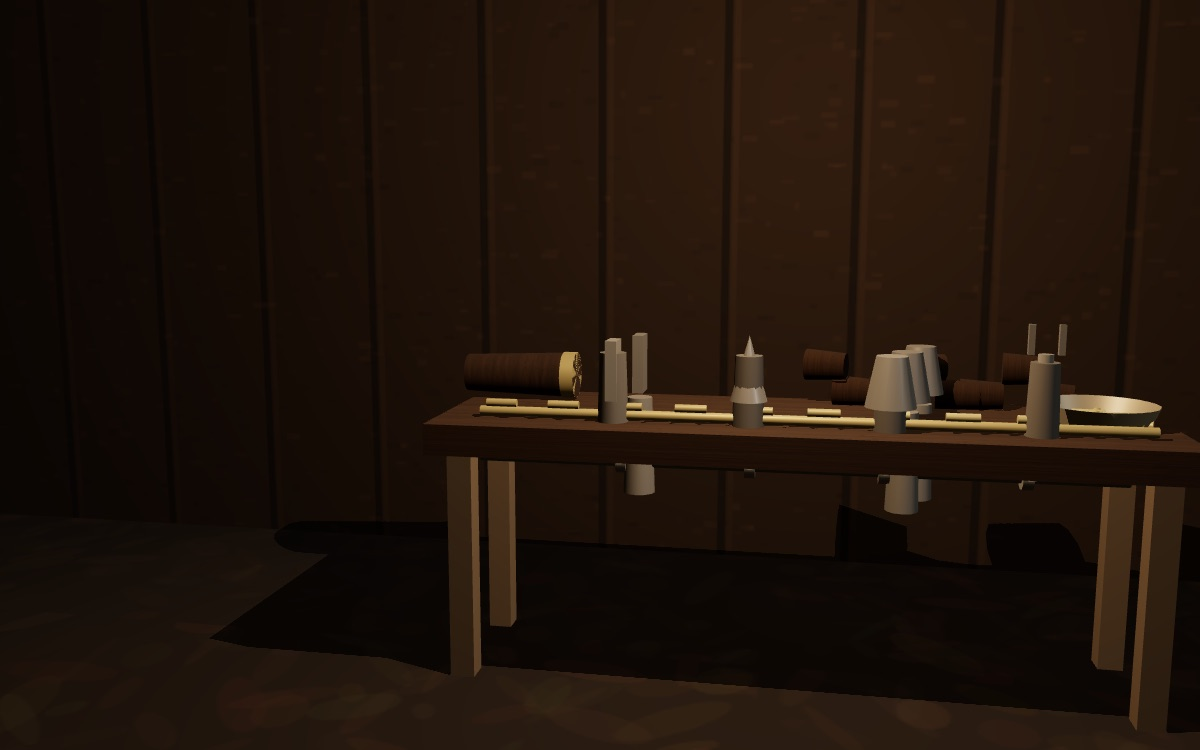
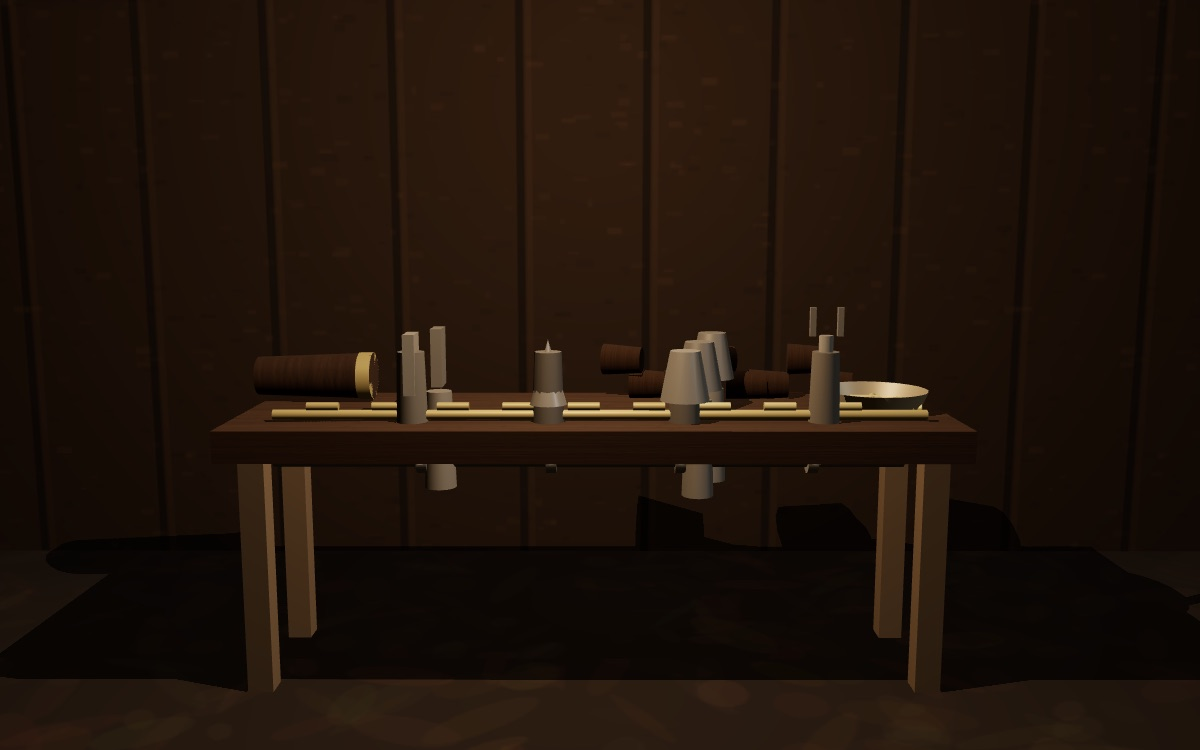
Glossaire : travailleur-collectif réécrite selon la charte, direction artistique « le four »

diff --git a/glossaire/mondes/travailleur-collectif/essai.html b/glossaire/mondes/travailleur-collectif/essai.html
@@ -1,47 +1,81 @@
-<!-- L'ESSAI - le corps de /glossaire/travailleur-collectif.
-     data-s="4" = quatrieme section de Roy (ch. XII-XV), qui contient le
-     chapitre XIV, De la division du travail et de la manufacture, et le
-     chapitre XV. data-s="5" = cinquieme section, ou la determination du
-     travail productif est elargie a partir de ce concept. -->
+<!-- L'ESSAI : le corps de /glossaire/travailleur-collectif.
+     Fragment HTML, assemblé par tools/gen-seo.mjs dans le gabarit des pages
+     de notion (avec meta.json pour la tête, l'appareil et le monde).
+     Réécrit en octobre 2026 selon glossaire/mondes/CHARTE.md.
+     data-s="4" = quatrième section de Roy (chapitres XII à XV : coopération,
+     manufacture, grande industrie). data-s="5" = cinquième section, où le
+     chapitre XVI élargit la détermination du travail productif à partir de
+     ce concept. Un data-q est une phrase RELEVÉE dans le texte que la
+     liseuse sert, au caractère près (apostrophe typographique, traits
+     d'union insécables de Wikisource) : ne rien « corriger ». -->
 
 <section class="nt-sec" data-etape="fait" id="fait">
-<h2>Un produit dont personne n'est l'auteur</h2>
-<p>Le chapitre XIV s'ouvre sur une difficulté que la coopération simple ne posait pas encore, ou du moins pas avec cette netteté. Dans un atelier de manufacture, l'épingle qui sort à la fin de la journée n'a été faite par personne. Le premier ouvrier a tiré le fil de laiton, le deuxième l'a coupé, le troisième en a aiguisé la pointe, le quatrième a formé la tête, le cinquième l'a fixée, et aucun d'eux n'a jamais fait d'épingle. Il faut donc, si l'on veut continuer de parler de production, nommer le producteur, et ce producteur n'est aucun des hommes qui sont dans la salle.</p>
-<p>Marx le nomme, et le nom n'est pas une image commode&nbsp;: c'est un concept, qui a ses propriétés, ses lois de composition et son histoire. Le producteur est le <i>Gesamtarbeiter</i>, le travailleur collectif, dont Roy traduit ailleurs le caractère par une formule mythologique que Marx emprunte au géant aux cent bras&nbsp;: <q data-s="4" data-q="Le travailleur collectif, Briarée, dont les mille mains sont armées d’outils divers">Le travailleur collectif, Briarée, dont les mille mains sont armées d'outils divers</q>, et qui exécute en même temps toutes les opérations que l'artisan exécutait l'une après l'autre.</p>
-<p>Il faut mesurer ce que ce déplacement engage. Toute l'économie politique classique raisonnait sur un producteur individuel dont on additionnait ensuite les produits&nbsp;; Marx soutient qu'à partir d'un certain point du développement, le sujet réel de la production n'est plus l'individu mais une combinaison, laquelle possède des facultés que ses membres n'ont pas et n'ont jamais eues. C'est pourquoi ce concept se place ici, au seuil de la manufacture, et non dans les chapitres sur la valeur&nbsp;: il fallait d'abord que la coopération ait été établie pour que l'on puisse montrer que sa forme développée produit un producteur nouveau.</p>
+<h2>Qui a fait l'épingle&nbsp;?</h2>
+<p class="nt-lead">Personne en particulier. Dans la manufacture, le produit passe par tant de mains qu'aucun ouvrier ne peut s'en dire l'auteur&nbsp;; le producteur est la combinaison des ouvriers elle-même, et Marx l'appelle le travailleur collectif.</p>
+<p>Prenons la manufacture d'épingles, à laquelle Marx revient plusieurs fois dans ce chapitre. Un ouvrier coupe le fil de laiton, un autre aiguise la pointe, un troisième façonne la tête, un quatrième l'attache. Chacun passe sa journée sur une seule de ces opérations, et aucun n'a jamais fait une épingle de bout en bout. Pourtant des épingles sortent de l'atelier par milliers. Si l'on veut dire qui les produit, il faut nommer quelqu'un qui n'est aucun des hommes présents dans la salle.</p>
+<p>Marx lui donne un nom, puis une image. L'image vient de la mythologie grecque, où Briarée est un géant aux cent bras&nbsp;; Marx lui en prête mille&nbsp;:</p>
+<blockquote data-s="4" data-q="Le travailleur collectif, Briarée, dont les mille mains sont armées d’outils divers"><p>Le travailleur collectif, Briarée, dont les mille mains sont armées d’outils divers, exécute en même temps la coupe des fils de laiton, la façon des têtes d’épingles, l’aiguisement de leurs pointes, leur attache, etc.</p></blockquote>
+<p>Le géant fait en même temps ce que l'artisan faisait l'une après l'autre. Chez l'épinglier d'autrefois, les opérations se suivaient dans le temps&nbsp;; dans la manufacture, chaque épingle les traverse encore une à une, mais l'atelier les accomplit toutes à la fois, à des postes différents. Marx le résume ainsi&nbsp;: <q data-s="4" data-q="Les diverses opérations connexes, successives dans le temps, deviennent simultanées dans l’espace">les diverses opérations connexes, successives dans le temps, deviennent simultanées dans l’espace</q>.</p>
+<p>Le second exemple du chapitre est la montre. Marx rappelle que William Petty l'avait déjà choisie pour décrire la division du travail, et il en fait l'histoire en une phrase&nbsp;: <q data-s="4" data-q="Primitivement œuvre individuelle d’un artisan de Nuremberg, la montre est devenue le produit social d’un nombre immense de travailleurs">primitivement œuvre individuelle d’un artisan de Nuremberg, la montre est devenue le produit social d’un nombre immense de travailleurs</q>. Suit une liste de plus de trente métiers&nbsp;: faiseurs de ressorts, de cadrans, de pignons, de vis, polisseurs de roues, peintres de chiffres, graveurs. La montre qu'on achète est faite de leurs pièces, et elle ne porte la marque d'aucun d'eux.</p>
+<div data-planche="montre"></div>
+<p>Le mot allemand est <i lang="de">Gesamtarbeiter</i>, mot à mot le travailleur d'ensemble. Le travailleur collectif apparaît déjà au chapitre XIII, consacré à la coopération, mais c'est au chapitre XIV qu'il prend tout son sens, quand la manufacture devient <q data-s="4" data-q="un organisme de production dont les membres sont des hommes">un organisme de production dont les membres sont des hommes</q>.</p>
 </section>
 
 <section class="nt-sec" data-etape="distinction" id="distinction">
-<h2>La distinction qui fait le concept&nbsp;: le membre et l'organe</h2>
-<p>Le travailleur collectif n'est pas la somme des ouvriers, et le dire ainsi ne suffit pas encore&nbsp;: il faut dire par quoi il en diffère. Il en diffère en ceci que ses parties ne sont pas des personnes complètes qu'on aurait rapprochées, mais des <i>fonctions</i>, et que chacune de ces fonctions est portée par un homme qui s'y est réduit. <q data-s="4" data-q="le mécanisme vivant de la manufacture, le travailleur collectif, n’est composé que de pareils travailleurs parcellaires">le mécanisme vivant de la manufacture, le travailleur collectif, n'est composé que de pareils travailleurs parcellaires</q> : la formule est exacte au mot près, et c'est le mot <i>parcellaire</i> qui fait le concept.</p>
-<p>Là où la coopération simple laissait chacun faire tout le travail à côté des autres, la manufacture décompose le métier et attache chaque homme à un fragment. Le gain est immédiat, et Marx en donne deux ressorts distincts. Le premier est un gain de temps sur l'objet&nbsp;: dans la chaîne des douze maçons qui se passent les pierres, <q data-s="4" data-q="les vingt‑quatre mains du travailleur collectif la font passer plus vite que ne le feraient les deux mains de chaque ouvrier isolé">les vingt‑quatre mains du travailleur collectif la font passer plus vite que ne le feraient les deux mains de chaque ouvrier isolé</q> montant et descendant l'échafaudage. Le second est un gain d'ubiquité&nbsp;: <q data-s="4" data-q="le travailleur collectif a des yeux et des mains par‑devant et par derrière et se trouve jusqu’à un certain point présent partout">le travailleur collectif a des yeux et des mains par‑devant et par derrière et se trouve jusqu'à un certain point présent partout</q>, si bien que des parties du produit séparées dans l'espace mûrissent dans le même temps.</p>
-<p>Vient alors la proposition la plus dure du chapitre, et celle qu'il ne faut surtout pas adoucir. La perfection de l'ensemble se paie de la diminution de chacun&nbsp;: <q data-s="4" data-q="En tant que membre du travailleur collectif, le travailleur parcellaire devient même d’autant plus parfait qu’il est plus borné et plus incomplet">En tant que membre du travailleur collectif, le travailleur parcellaire devient même d'autant plus parfait qu'il est plus borné et plus incomplet</q>. Ce n'est pas un paradoxe rhétorique. Un homme qui ne fait qu'une chose la fait plus vite, plus sûrement, avec moins de déchet&nbsp;; il devient, écrit Marx, <q data-s="4" data-q="organe infaillible et spontané de cette fonction">organe infaillible et spontané de cette fonction</q>, tandis que <q data-s="4" data-q="l’ensemble du mécanisme le contraint d’agir avec la régularité d’une pièce de machine">l'ensemble du mécanisme le contraint d'agir avec la régularité d'une pièce de machine</q>. Le mot <i>organe</i> est ici littéral&nbsp;: un organe est ce qui n'a de fonction que dans un corps, et qui hors de ce corps n'a plus de fonction du tout.</p>
+<h2>Qu'est-ce qui distingue le travailleur collectif d'une somme d'ouvriers&nbsp;?</h2>
+<p class="nt-lead">Ses parties sont des fonctions plutôt que des personnes. Chaque homme y porte un seul geste, et ces gestes ne forment un travail que dans l'ensemble.</p>
+<p>La coopération simple donne déjà au groupe des facultés qu'aucun de ses membres ne possède. Marx prend l'exemple de douze maçons qui font la chaîne pour monter des pierres en haut d'un échafaudage. Chacun fait le même geste, et pourtant <q data-s="4" data-q="les vingt‑quatre mains du travailleur collectif la font passer plus vite que ne le feraient les deux mains de chaque ouvrier isolé">les vingt‑quatre mains du travailleur collectif la font passer plus vite que ne le feraient les deux mains de chaque ouvrier isolé</q> montant et descendant l'échelle. Quand ils travaillent aux différents côtés d'un même bâtiment, le groupe gagne une sorte d'ubiquité&nbsp;: <q data-s="4" data-q="le travailleur collectif a des yeux et des mains par‑devant et par derrière et se trouve jusqu’à un certain point présent partout">le travailleur collectif a des yeux et des mains par‑devant et par derrière et se trouve jusqu’à un certain point présent partout</q>.</p>
+<p>La manufacture va plus loin. Les douze maçons restaient des maçons complets, qui auraient pu bâtir seuls. Dans l'atelier d'épingles, le métier lui-même est décomposé, et chaque homme est attaché à un fragment. Marx le dit au mot près&nbsp;: <q data-s="4" data-q="le mécanisme vivant de la manufacture, le travailleur collectif, n’est composé que de pareils travailleurs parcellaires">le mécanisme vivant de la manufacture, le travailleur collectif, n’est composé que de pareils travailleurs parcellaires</q>. Le mot qui compte est «&nbsp;parcellaire&nbsp;»&nbsp;: l'ouvrier n'est plus qu'une parcelle du producteur.</p>
+<p>Vient alors la phrase la plus dure du chapitre, qu'il ne faut pas adoucir&nbsp;:</p>
+<blockquote data-s="4" data-q="En tant que membre du travailleur collectif, le travailleur parcellaire devient même d’autant plus parfait qu’il est plus borné et plus incomplet"><p>En tant que membre du travailleur collectif, le travailleur parcellaire devient même d’autant plus parfait qu’il est plus borné et plus incomplet.</p></blockquote>
+<p>Elle n'a rien d'un paradoxe de style. Un homme qui ne fait qu'une chose la fait plus vite, plus sûrement, avec moins de perte. L'habitude le change en <q data-s="4" data-q="organe infaillible et spontané de cette fonction">organe infaillible et spontané de cette fonction</q>, tandis que <q data-s="4" data-q="l’ensemble du mécanisme le contraint d’agir avec la régularité d’une pièce de machine">l’ensemble du mécanisme le contraint d’agir avec la régularité d’une pièce de machine</q>. Le mot «&nbsp;organe&nbsp;» se prend ici à la lettre&nbsp;: un organe n'a de fonction que dans un corps, et hors de ce corps il n'en a plus aucune. Marx évoque à ce propos l'apologue romain de Ménénius Agrippa, où la cité est comparée à un corps dont les citoyens sont les membres. La manufacture le rend vrai à sa manière&nbsp;: on y trouve réalisée <q data-s="4" data-q="la fable absurde de Menennius Agrippa, représentant un homme comme fragment de son propre corps">la fable absurde de Menennius Agrippa, représentant un homme comme fragment de son propre corps</q>.</p>
 </section>
 
 <section class="nt-sec" data-etape="mecanisme" id="mecanisme">
-<h2>Le mécanisme&nbsp;: pourquoi c'est un corps et non une équipe</h2>
-<p>On pourrait croire qu'il s'agit d'une manière de parler, et que le travailleur collectif est une équipe dont on célèbre l'entente. Marx ferme cette lecture par un argument qui est proprement technique, et qui est le plus beau du chapitre. Une équipe se compose des volontés qui s'y accordent&nbsp;; un corps se compose selon des proportions qu'aucune volonté ne choisit. Or la manufacture, écrit-il, ne se contente pas de multiplier les organes qualitativement différents du travailleur collectif&nbsp;: <q data-s="4" data-q="elle crée, de plus, un rapport mathématique fixe qui règle leur quantité">elle crée, de plus, un rapport mathématique fixe qui règle leur quantité</q>, c'est-à-dire le nombre relatif d'ouvriers affectés à chaque fonction.</p>
-<p>Il faut se représenter la chose très concrètement, parce que c'est là que le concept cesse d'être une figure. Si un fondeur fournit quatre mille pièces à l'heure, qu'un briseur en détache autant et qu'un frotteur en polit huit mille, alors le groupe se compose nécessairement de deux fondeurs, deux briseurs et un frotteur, et de rien d'autre. <q data-s="4" data-q="Le nombre proportionnel le plus convenable des différents groupes de travailleurs parcellaires">Le nombre proportionnel le plus convenable des différents groupes de travailleurs parcellaires</q> une fois établi, on ne peut plus étendre l'atelier qu'en multipliant chaque groupe par un même nombre entier. L'atelier a une formule, comme un composé chimique a la sienne.</p>
-<p>De là suivent deux conséquences que le reste du chapitre développe. La première est qu'un membre manquant arrête tout&nbsp;: l'interruption d'une fonction ne ralentit pas le rendement, elle le supprime, puisque l'objet n'a plus de phase suivante à parcourir. La seconde est qu'un tel corps exige une tête qui ne soit pas l'un de ses bras. Marx la formule par une comparaison que l'on cite souvent sans la lire jusqu'au bout&nbsp;: <q data-s="4" data-q="Un musicien exécutant un solo se dirige lui-même, mais un orchestre a besoin d’un chef">Un musicien exécutant un solo se dirige lui-même, mais un orchestre a besoin d'un chef</q>. La direction est ici une nécessité réelle de la coopération, et c'est précisément parce qu'elle est réelle qu'elle peut servir à justifier une direction d'une tout autre nature.</p>
+<h2>Pourquoi parler d'un corps plutôt que d'une équipe&nbsp;?</h2>
+<p class="nt-lead">Parce que ses proportions ne dépendent de la volonté de personne. La technique fixe combien d'hommes il faut à chaque fonction, et l'absence d'un seul arrête l'ensemble.</p>
+<p>Une équipe se forme par l'accord de ceux qui la composent. Le travailleur collectif se compose selon des nombres. Chaque opération a son rythme&nbsp;: si un ouvrier en accomplit une deux fois plus vite que son voisin n'accomplit la suivante, il faut deux voisins pour un ouvrier. La manufacture, écrit Marx, ne multiplie pas seulement les organes du travailleur collectif&nbsp;: <q data-s="4" data-q="elle crée, de plus, un rapport mathématique fixe qui règle leur quantité">elle crée, de plus, un rapport mathématique fixe qui règle leur quantité</q>. Une fois trouvé <q data-s="4" data-q="Le nombre proportionnel le plus convenable des différents groupes de travailleurs parcellaires">le nombre proportionnel le plus convenable des différents groupes de travailleurs parcellaires</q>, on ne peut agrandir l'atelier qu'en multipliant chaque groupe par le même nombre. L'atelier a une formule, comme un corps chimique a la sienne.</p>
+<div class="nt-ex">
+<p class="nt-ex-t">Un exemple&nbsp;: le groupe du four</p>
+<p>Marx décrit une verrerie anglaise qui fabrique des bouteilles. Devant chaque ouverture du four travaille un groupe de cinq hommes, qu'on appelle en anglais le <i lang="en">hole</i>, «&nbsp;le trou&nbsp;»&nbsp;: un finisseur, un souffleur, un cueilleur qui prend le verre en fusion, et deux ouvriers que Marx désigne par leurs noms anglais, <i lang="en">putter-up</i> et <i lang="en">taker-in</i>. Le travail passe de l'un à l'autre. <q data-s="4" data-q="Ces cinq ouvriers forment autant d’organes différents d’une force collective de travail">Ces cinq ouvriers forment autant d’organes différents d’une force collective de travail</q>, qui ne fonctionne que si les cinq sont là.</p>
+<p>Qu'un seul s'absente, et la bouteille ne peut plus être faite&nbsp;: le groupe ne ralentit pas, il s'arrête. Marx l'écrit sans détour&nbsp;: <q data-s="4" data-q="Cet organisme se trouve paralysé dès qu’il lui manque un seul de ses membres">cet organisme se trouve paralysé dès qu’il lui manque un seul de ses membres</q>. Le four, lui, a quatre à six ouvertures, chacune avec son groupe, et ces groupes ne sont reliés que parce qu'ils partagent le même feu.</p>
+</div>
+<p>Un tel corps a besoin d'une tête qui ne soit aucun de ses bras. Marx l'avait dit dès la coopération simple, par une comparaison souvent citée&nbsp;: <q data-s="4" data-q="Un musicien exécutant un solo se dirige lui-même, mais un orchestre a besoin d’un chef">un musicien exécutant un solo se dirige lui-même, mais un orchestre a besoin d’un chef</q>. La direction répond à une nécessité réelle du travail en commun. La phrase suivante dit pourtant à qui elle échoit&nbsp;: <q data-s="4" data-q="Cette fonction de direction, de surveillance et de médiation devient la fonction du capital">cette fonction de direction, de surveillance et de médiation devient la fonction du capital</q>. La nécessité est technique&nbsp;; celui qui l'exerce est désigné par la propriété.</p>
 </section>
 
 <section class="nt-sec" data-etape="portee" id="portee">
-<h2>Ce que la combinaison coûte à ceux qui la composent</h2>
-<p>Nous touchons ici à ce qui distingue ce chapitre d'un éloge de l'organisation industrielle, et il faut y insister parce que la formule est symétrique et que sa symétrie est le sens même du concept. <q data-s="4" data-q="Dans la manufacture l’enrichissement du travailleur collectif, et par suite du capital, en forces productives sociales a pour condition l’appauvrissement du travailleur en forces productives individuelles">Dans la manufacture l'enrichissement du travailleur collectif, et par suite du capital, en forces productives sociales a pour condition l'appauvrissement du travailleur en forces productives individuelles</q>. Ce que le corps gagne, il ne le gagne pas en plus de ses organes&nbsp;: il le gagne à leurs dépens, et la proposition dit <i>condition</i>, non pas conséquence regrettable.</p>
-<p>Marx en tire ce qu'il appelle une pathologie industrielle. La manufacture développe la virtuosité de l'ouvrier de détail en sacrifiant tout un monde de dispositions productives&nbsp;; elle le mutile, et il emploie ce mot sans métaphore, <q data-s="4" data-q="la manufacture qui mutile le travailleur au point de le réduire à une parcelle de lui-même">la manufacture qui mutile le travailleur au point de le réduire à une parcelle de lui-même</q>. La comparaison qui suit est brutale et volontairement dérangeante&nbsp;: on immole un taureau pour sa peau et son suif.</p>
-<p>Une seconde conséquence, plus discrète, éclaire toute la question des salaires. Puisque les fonctions du travailleur collectif sont inégalement simples et inégalement longues à apprendre, les forces de travail qui les portent ont des valeurs différentes&nbsp;; il en résulte que <q data-s="4" data-q="La manufacture crée ainsi une hiérarchie des forces de travail à laquelle correspond une échelle graduée des salaires">La manufacture crée ainsi une hiérarchie des forces de travail à laquelle correspond une échelle graduée des salaires</q>. L'échelle des salaires n'est donc pas d'abord un fait de négociation&nbsp;: elle est la projection, sur les hommes, de la structure d'un corps productif. C'est un point que les études contemporaines sur la segmentation du marché du travail retrouvent par d'autres chemins, et il vaut la peine de noter qu'il est ici déduit et non constaté.</p>
+<h2>Que coûte cette combinaison à ceux qui la composent&nbsp;?</h2>
+<p class="nt-lead">Ce que le corps gagne, ses membres le perdent. Marx l'écrit comme une condition&nbsp;: la richesse productive de l'ensemble suppose l'appauvrissement de chacun.</p>
+<p>La phrase est construite comme une balance, et il faut la lire jusqu'au bout&nbsp;:</p>
+<blockquote data-s="4" data-q="Dans la manufacture l’enrichissement du travailleur collectif, et par suite du capital, en forces productives sociales a pour condition l’appauvrissement du travailleur en forces productives individuelles"><p>Dans la manufacture l’enrichissement du travailleur collectif, et par suite du capital, en forces productives sociales a pour condition l’appauvrissement du travailleur en forces productives individuelles.</p></blockquote>
+<p>Le mot «&nbsp;condition&nbsp;» porte l'argument. Il désigne ce sans quoi l'enrichissement n'aurait pas lieu&nbsp;: le corps devient habile parce que ses membres sont réduits à un geste. L'intelligence du travail, qui était dans la main et la tête de l'artisan, change alors de place&nbsp;: <q data-s="4" data-q="Ce que les ouvriers parcellaires perdent, se concentre en face d’eux dans le capital.">ce que les ouvriers parcellaires perdent, se concentre en face d’eux dans le capital.</q> Le plan de l'atelier, la connaissance de l'ensemble, le rythme des opérations appartiennent désormais à celui qui dirige.</p>
+<p>Marx emploie alors un mot qu'il prend au sens propre, celui de mutilation. La division de l'atelier commence dans la coopération et <q data-s="4" data-q="se développe dans la manufacture qui mutile le travailleur au point de le réduire à une parcelle de lui-même">se développe dans la manufacture qui mutile le travailleur au point de le réduire à une parcelle de lui-même</q>. Pour faire sentir le gâchis, il compare la manufacture aux éleveurs de la Plata qui abattent un taureau pour sa seule peau et son suif&nbsp;: on sacrifie un homme entier pour en tirer une dextérité.</p>
+<p>La structure du corps se projette enfin sur les salaires. Les fonctions du travailleur collectif ne demandent pas le même apprentissage&nbsp;; les forces de travail qui les remplissent n'ont donc pas la même valeur. <q data-s="4" data-q="La manufacture crée ainsi une hiérarchie des forces de travail à laquelle correspond une échelle graduée des salaires">La manufacture crée ainsi une hiérarchie des forces de travail à laquelle correspond une échelle graduée des salaires</q>. Avant d'être une affaire de négociation, l'écart entre les salaires reflète la place de chacun dans l'organisme.</p>
 </section>
 
 <section class="nt-sec" data-etape="ouvre" id="ouvre">
-<h2>Ce que le concept ouvre&nbsp;: le travail productif, puis la machine</h2>
-<p>Deux développements majeurs du Livre&nbsp;I sortent de ce concept, et ils vont dans des directions opposées, ce qui est le signe d'un concept fécond.</p>
-<p>Le premier élargit la notion de travail productif. Tant que le producteur est un individu, est productif celui qui met la main à l'ouvrage. Dès que le producteur est une combinaison, la détermination change de sujet&nbsp;: <q data-s="5" data-q="il suffit d’être un organe du travailleur collectif ou d’en remplir une fonction quelconque">il suffit d'être un organe du travailleur collectif ou d'en remplir une fonction quelconque</q>. Le contremaître, le dessinateur, l'employé qui ne touche jamais la matière deviennent alors des travailleurs productifs au même titre que le fileur, non par générosité de la définition mais parce que le producteur réel les comprend. Marx ajoute aussitôt la restriction qui compte dans le système capitaliste&nbsp;: n'y est productif que le travail qui produit de la <a href="/glossaire/plus-value">plus-value</a>, ce qui est une seconde détermination, sociale celle-là, et non plus matérielle.</p>
-<p>Le second développement conduit au chapitre XV et le renverse. Marx y oppose deux définitions de la fabrique, empruntées au même auteur, et montre qu'elles disent le contraire l'une de l'autre. Dans la première, <q data-s="4" data-q="le travailleur collectif ou le corps de travail social apparaît comme le sujet dominant et l’automate mécanique comme son objet">le travailleur collectif ou le corps de travail social apparaît comme le sujet dominant et l'automate mécanique comme son objet</q>. Dans la seconde, <q data-s="4" data-q="c’est l’automate même qui est le sujet et les travailleurs sont tout simplement adjoints comme organes conscients à ses organes inconscients">c'est l'automate même qui est le sujet et les travailleurs sont tout simplement adjoints comme organes conscients à ses organes inconscients</q>. Le passage de l'une à l'autre est toute l'histoire de la grande industrie&nbsp;: le corps qui portait les outils devient un appendice de la machine qui les porte, et c'est ce déplacement du sujet, plus encore que l'accélération des cadences, qui fait la différence entre la manufacture et la fabrique.</p>
+<h2>Que devient le concept dans la suite du <i>Capital</i>&nbsp;?</h2>
+<p class="nt-lead">Il sert deux fois. Il élargit la notion de travail productif, puis il perd sa place de sujet au profit de la machine.</p>
+<p>Au chapitre XVI, Marx tire la première conséquence. Tant que le producteur est un individu, est productif celui qui travaille la matière de ses mains. Quand le producteur est une combinaison, la définition change de sujet&nbsp;: <q data-s="5" data-q="Pour être productif, il n’est plus nécessaire de mettre soi-même la main à l’œuvre">pour être productif, il n’est plus nécessaire de mettre soi-même la main à l’œuvre</q>, car <q data-s="5" data-q="il suffit d’être un organe du travailleur collectif ou d’en remplir une fonction quelconque">il suffit d’être un organe du travailleur collectif ou d’en remplir une fonction quelconque</q>. Le contremaître, le dessinateur, le commis qui ne touche jamais l'ouvrage participent à la production au même titre que le fileur, puisque le producteur réel les comprend tous. Marx ajoute aussitôt une seconde condition, propre au capitalisme&nbsp;: n'y est productif que le travail qui produit de la <a href="/glossaire/plus-value">plus-value</a>.</p>
+<p>La seconde conséquence se lit au chapitre XV et renverse la première. Andrew Ure, que Marx appelle «&nbsp;le Pindare de la fabrique&nbsp;», donne de la fabrique deux définitions que Marx confronte. Dans la première, <q data-s="4" data-q="le travailleur collectif ou le corps de travail social apparaît comme le sujet dominant et l’automate mécanique comme son objet">le travailleur collectif ou le corps de travail social apparaît comme le sujet dominant et l’automate mécanique comme son objet</q>. Dans la seconde, <q data-s="4" data-q="c’est l’automate même qui est le sujet et les travailleurs sont tout simplement adjoints comme organes conscients à ses organes inconscients">c’est l’automate même qui est le sujet et les travailleurs sont tout simplement adjoints comme organes conscients à ses organes inconscients</q>.</p>
+<p>Le passage de l'une à l'autre résume l'histoire de la grande industrie. Dans la manufacture, le corps des ouvriers porte les outils et en règle le mouvement. Dans la fabrique, une machine porte les outils, et les hommes s'ajustent à elle. Le travailleur collectif devient ce que la page sur l'<a href="/glossaire/appendice-de-la-machine">appendice de la machine</a> décrit&nbsp;: un ensemble d'organes au service d'un mécanisme qui ne vient plus de lui.</p>
 </section>
 
 <section class="nt-sec" data-etape="lectures" id="lectures">
-<h2>Lectures et contresens</h2>
-<p>Le contresens le plus répandu consiste à lire le travailleur collectif comme une figure déjà socialiste, une préfiguration de la production associée que le capital aurait involontairement mise au monde. Le texte interdit cette lecture, et il l'interdit par sa phrase la plus économique&nbsp;: <q data-s="4" data-q="La force productive que des salariés déploient en fonctionnant comme travailleur collectif, est par conséquent force productive du capital">La force productive que des salariés déploient en fonctionnant comme travailleur collectif, est par conséquent force productive du capital</q>. L'unité de ce corps ne lui appartient pas. Elle lui est extérieure, puisque ce sont des contrats séparés qui l'ont formé et un commandement qui la maintient&nbsp;; dès la coopération simple, <q data-s="4" data-q="le capitaliste représente vis-à-vis du travailleur isolé l’unité et la volonté du travailleur collectif">le capitaliste représente vis-à-vis du travailleur isolé l'unité et la volonté du travailleur collectif</q>.</p>
-<p>Il serait toutefois inexact d'en conclure que Marx ne voit là qu'une perte. La thèse est plus tendue, et nous nous rangeons à la lecture qui la maintient tendue plutôt qu'à celles qui la simplifient dans un sens ou dans l'autre. La combinaison est réellement une force productive nouvelle, et elle survivrait à la disparition du rapport qui l'a fait naître&nbsp;; ce qui n'y survivrait pas, c'est la forme que ce rapport lui impose, à savoir que ses organes soient des hommes réduits à une fonction et que sa tête soit la propriété d'un autre. Toute la difficulté du chapitre tient à ce qu'il faut penser ensemble une conquête et une mutilation, sans dissoudre l'une dans l'autre.</p>
-<p>Un dernier point de vocabulaire, qui prête souvent à confusion. Le travailleur collectif n'est pas la <a href="/glossaire/cooperation">coopération</a>, qui en est la condition, ni la <a href="/glossaire/division-du-travail">division du travail</a>, qui en est le principe de composition&nbsp;: il est le <i>sujet</i> que ces deux-là produisent, et c'est pour cela qu'il a fallu lui donner un nom. On lira utilement à sa suite la page sur l'<a href="/glossaire/appendice-de-la-machine">appendice de la machine</a>, où ce sujet perd sa place, et celle sur la <a href="/glossaire/plus-value-relative">plus-value relative</a>, qui dit à quoi toute cette organisation sert.</p>
+<h2>Comment lire ce concept, et quels contresens éviter&nbsp;?</h2>
+<p class="nt-lead">Le travailleur collectif est une force productive réelle, mais elle appartient au capital qui l'a assemblée. Les contresens viennent presque tous de ce qu'on retient l'une de ces deux affirmations sans l'autre.</p>
+<p>Le chapitre XIII dit d'où vient cette appartenance. Les ouvriers sont engagés un à un, par des contrats séparés, et ils n'entrent en rapport entre eux qu'une fois dans l'atelier&nbsp;: <q data-s="4" data-q="Leur coopération ne commence que dans le procès de travail ; mais là ils ont déjà cessé de s’appartenir">leur coopération ne commence que dans le procès de travail&nbsp;; mais là ils ont déjà cessé de s’appartenir</q>. La conclusion suit&nbsp;: <q data-s="4" data-q="La force productive que des salariés déploient en fonctionnant comme travailleur collectif, est par conséquent force productive du capital">la force productive que des salariés déploient en fonctionnant comme travailleur collectif, est par conséquent force productive du capital</q>. Le capitaliste paie chaque force de travail séparément. La force qui naît de leur combinaison, il ne la paie pas&nbsp;: <q data-s="4" data-q="Les forces sociales du travail se développent sans être payées">les forces sociales du travail se développent sans être payées</q> dès que le capital a réuni les ouvriers. Face à chacun d'eux, il représente l'unité de l'ensemble, et dès la coopération simple <q data-s="4" data-q="le capitaliste représente vis-à-vis du travailleur isolé l’unité et la volonté du travailleur collectif">le capitaliste représente vis-à-vis du travailleur isolé l’unité et la volonté du travailleur collectif</q>.</p>
+<p>Marx ne condamne pas pour autant la combinaison elle-même. Il demande de séparer deux choses que le capitalisme a soudées&nbsp;: <q data-s="4" data-q="il faut distinguer entre le surcroît de productivité dû au développement du procès de travail social et celui qui provient de son exploitation capitaliste">il faut distinguer entre le surcroît de productivité dû au développement du procès de travail social et celui qui provient de son exploitation capitaliste</q>. Nous suivons la lecture qui garde ensemble les deux côtés du concept. La combinaison est une conquête&nbsp;; la forme qu'elle prend dans la manufacture, des hommes réduits à une fonction et une tête qui appartient à un autre, est une mutilation. Le chapitre demande de penser les deux à la fois.</p>
+<div class="nt-cs">
+<p><span class="nt-cs-k">On lit souvent</span> Le travailleur collectif serait déjà un collectif ouvrier, une préfiguration de la production associée que le capital aurait mise au monde sans le vouloir.</p>
+<p><span class="nt-cs-k">Ce que dit le texte</span> Son unité lui vient du dehors. Ce sont des contrats séparés qui le forment et un commandement qui le tient&nbsp;; sa force est celle du capital. Que la combinaison puisse un jour appartenir à ceux qui la composent est une autre question, que ce chapitre ne règle pas.</p>
+</div>
+<div class="nt-cs">
+<p><span class="nt-cs-k">On lit souvent</span> Marx condamnerait la grande échelle et la spécialisation en elles-mêmes, et rêverait d'un retour à l'artisan complet.</p>
+<p><span class="nt-cs-k">Ce que dit le texte</span> Il tient la force collective pour un progrès réel de la productivité, et il distingue ce progrès de son exploitation capitaliste. Ce qu'il critique, c'est la forme que la manufacture impose à la combinaison.</p>
+</div>
+<div class="nt-cs">
+<p><span class="nt-cs-k">On lit souvent</span> Travailleur collectif, coopération et division du travail seraient trois noms d'une même chose.</p>
+<p><span class="nt-cs-k">Ce que dit le texte</span> La <a href="/glossaire/cooperation">coopération</a> en est la condition, la <a href="/glossaire/division-du-travail">division du travail</a> son principe de composition&nbsp;; le travailleur collectif est le producteur que les deux font naître. C'est pour désigner ce producteur que Marx a eu besoin d'un nom.</p>
+</div>
 </section>

diff --git a/glossaire/mondes/travailleur-collectif/monde.js b/glossaire/mondes/travailleur-collectif/monde.js
@@ -370,7 +370,10 @@ window.LM_MONDE = function (canvas) {
     var dist = camera.position.distanceTo(camA);
     var fwd = new THREE.Vector3().subVectors(camA, camera.position).normalize();
     var right = new THREE.Vector3().crossVectors(fwd, V3(0, 1, 0)).normalize();
-    aim.copy(camA).addScaledVector(right, -Math.min(0.20 * dist, 0.70));
+    /* Dans la figure (et sous 1100 px), la scène n'a plus de colonne de
+       texte à éviter : la visée se fait sur le sujet, sans décalage. */
+    var large = canvas.clientWidth >= 1100 && !(canvas.closest && canvas.closest('.nt-fig'));
+    aim.copy(camA).addScaledVector(right, large ? -Math.min(0.20 * dist, 0.70) : 0);
     camera.lookAt(aim);
     render();
   }
